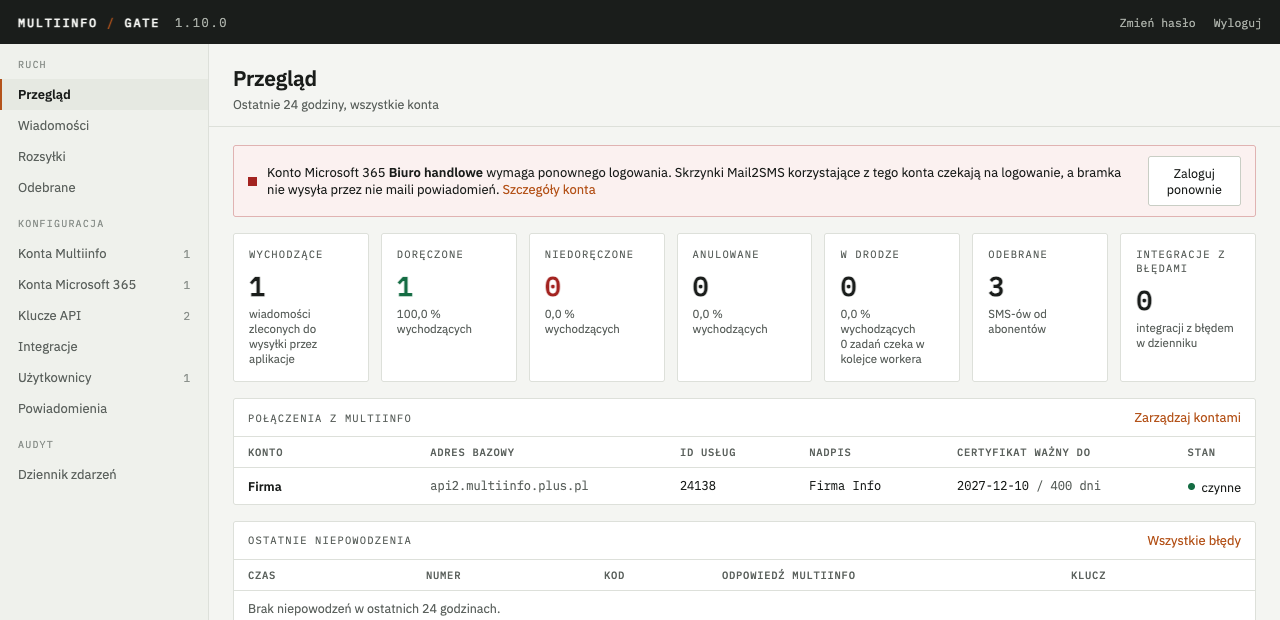
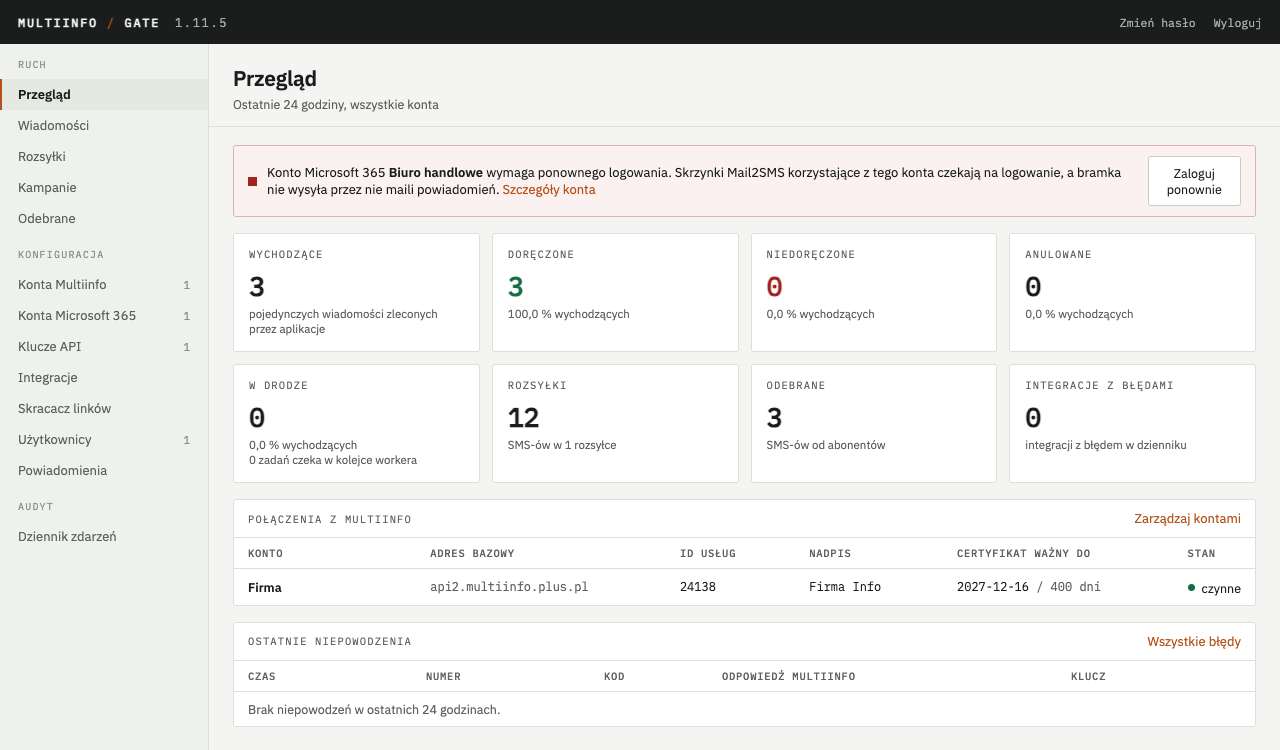
1.11.5: kafelek Rozsyłki na Przeglądzie i dokładniejszy podpis kafelka Wychodzące

diff --git a/test/admin/overview-packages.test.ts b/test/admin/overview-packages.test.ts
@@ -1,0 +1,76 @@
+import { beforeEach, describe, expect, it } from 'vitest';
+import { startAdminHarness, seedAccount, type AdminHarness } from '../helpers/admin-app.ts';
+import { packagesTileNote } from '../../src/admin/views/overview.ts';
+
+const NOW = new Date('2026-08-25T10:00:00Z');
+
+let h: AdminHarness;
+let accountId: number;
+let apiKeyId: number;
+
+beforeEach(async () => {
+  h = await startAdminHarness(NOW);
+  accountId = seedAccount(h);
+  apiKeyId = h.apiKeys.insert({
+    accountId, name: 'Dyspozytornia', keyHash: 'argon2:aaa', keyPrefix: 'a1b2c3d4',
+    defaultServiceId: '24138', defaultOrig: null, maxParts: 5, ratePerMin: 60,
+    webhookUrl: null, webhookSecret: null, serviceIds: ['24138'],
+  });
+});
+
+const page = (url: string) => h.app.inject({ method: 'GET', url, headers: { cookie: h.cookie } });
+
+function addPackage(id: string, createdAt: Date, dests: string[]): void {
+  h.packages.insert({
+    id, apiKeyId, accountId, serviceId: '24138', defaultText: 'Przegląd serwisowy jutro o 9:00', orig: null,
+    costCenter: null, startAt: null, deliveryReport: 0, encoding: 'gsm', multipart: 0, createdAt: createdAt.toISOString(),
+  }, dests.map((dest) => ({ dest, text: null, clientId: null })));
+}
+
+function addMessage(id: string): void {
+  h.messages.insert({
+    id, apiKeyId, accountId, serviceId: '24138', dest: '48601135134', body: 'Zlecenie serwisowe przyjęte',
+    bodyHash: 'h', encoding: 'gsm', parts: 1, slots: 22, orig: null, costCenter: null, validTo: null,
+    idempotencyKey: null, createdAt: NOW.toISOString(),
+  });
+}
+
+describe('packagesTileNote', () => {
+  it('odmienia podpis kafelka według liczby rozsyłek', () => {
+    expect(packagesTileNote(0)).toBe('SMS-ów w rozsyłkach');
+    expect(packagesTileNote(1)).toBe('SMS-ów w 1 rozsyłce');
+    expect(packagesTileNote(2)).toBe('SMS-ów w 2 rozsyłkach');
+    expect(packagesTileNote(5)).toBe('SMS-ów w 5 rozsyłkach');
+  });
+});
+
+describe('GET /przeglad - rozsyłki', () => {
+  it('kafelek Rozsyłki liczy SMS-y rozsyłek z ostatniej doby i prowadzi do listy rozsyłek', async () => {
+    addPackage('pkg_1', NOW, ['48601000001', '48601000002', '48601000003']);
+    addPackage('pkg_0', new Date(NOW.getTime() - 25 * 3600_000), ['48601000004']);
+    const res = await page('/przeglad');
+    expect(res.body).toMatch(/<a class="tile" href="\/rozsylki">\s*<div class="lab">Rozsyłki<\/div>\s*<div class="n">3<\/div>\s*<div class="d">SMS-ów w 1 rozsyłce<\/div>/);
+  });
+
+  it('bez rozsyłek pokazuje zero i podpis dla zera', async () => {
+    const res = await page('/przeglad');
+    expect(res.body).toMatch(/Rozsyłki<\/div>\s*<div class="n">0<\/div>\s*<div class="d">SMS-ów w rozsyłkach<\/div>/);
+  });
+
+  it('kafelek Wychodzące liczy tylko pojedyncze wiadomości, także po dodaniu rozsyłki', async () => {
+    addMessage('m1');
+    addPackage('pkg_1', NOW, ['48601000001', '48601000002', '48601000003']);
+    const res = await page('/przeglad');
+    expect(res.body).toMatch(/Wychodzące<\/div>\s*<div class="n">1<\/div>\s*<div class="d">pojedynczych wiadomości zleconych przez aplikacje<\/div>/);
+  });
+
+  it('kafelek Rozsyłki stoi za „W drodze”, a przed „Odebrane”', async () => {
+    const body = (await page('/przeglad')).body;
+    const transit = body.indexOf('<div class="lab">W drodze</div>');
+    const packages = body.indexOf('<div class="lab">Rozsyłki</div>');
+    const inbound = body.indexOf('<div class="lab">Odebrane</div>');
+    expect(transit).toBeGreaterThan(-1);
+    expect(packages).toBeGreaterThan(transit);
+    expect(inbound).toBeGreaterThan(packages);
+  });
+});

diff --git a/src/admin/views/overview.ts b/src/admin/views/overview.ts
@@ -19,6 +19,8 @@ export interface OverviewData {
   failures: MessageRow[];
   keyNames: Map<number, string>;
   webhooks: { pending: number; failed: number };
+  /** Rozsyłki z okna przeglądu i liczba ich SMS-ów, czyli suma odbiorców. */
+  packages: { packages: number; recipients: number };
   /** Odebrane od abonentów w oknie przeglądu. */
   inboundToday: number;
   /** Integracje z choć jednym błędem w oknie przeglądu. */
@@ -42,6 +44,13 @@ export function troubledIntegrations(n: number): string {
   if (n === 1) return '1 integracja zgłosiła błąd';
   if (last >= 2 && last <= 4 && (tens < 12 || tens > 14)) return `${n} integracje zgłosiły błąd`;
   return `${n} integracji zgłosiło błąd`;
+}
+
+/** Podpis kafelka „Rozsyłki”: „SMS-ów w rozsyłkach”, „SMS-ów w 1 rozsyłce”, „SMS-ów w 5 rozsyłkach”. */
+export function packagesTileNote(packages: number): string {
+  if (packages === 0) return 'SMS-ów w rozsyłkach';
+  if (packages === 1) return 'SMS-ów w 1 rozsyłce';
+  return `SMS-ów w ${packages} rozsyłkach`;
 }
 
 /** „1 webhook nie dotarł”, „3 webhooki nie dotarły”, „5 webhooków nie dotarło”. */
@@ -237,11 +246,11 @@ export function overviewPage(data: OverviewData, now: Date): string {
   </div>
   <div class="scroll">
     ${alerts(data, now)}
-    <div class="tiles tiles-7">
+    <div class="tiles">
       <a class="tile" href="/wiadomosci">
         <div class="lab">Wychodzące</div>
         <div class="n">${esc(data.counts.total)}</div>
-        <div class="d">wiadomości zleconych do wysyłki przez aplikacje</div>
+        <div class="d">pojedynczych wiadomości zleconych przez aplikacje</div>
       </a>
       <a class="tile" href="/wiadomosci?status=delivered">
         <div class="lab">Doręczone</div>
@@ -262,6 +271,11 @@ export function overviewPage(data: OverviewData, now: Date): string {
         <div class="lab">W drodze</div>
         <div class="n">${esc(data.counts.transit)}</div>
         <div class="d">${esc(share(data.counts.transit, data.counts.total))}<br>${esc(data.queueDepth)} zadań czeka w kolejce workera</div>
+      </a>
+      <a class="tile" href="/rozsylki">
+        <div class="lab">Rozsyłki</div>
+        <div class="n">${esc(data.packages.recipients)}</div>
+        <div class="d">${esc(packagesTileNote(data.packages.packages))}</div>
       </a>
       <a class="tile" href="/odebrane">
         <div class="lab">Odebrane</div>

diff --git a/test/store/packages.test.ts b/test/store/packages.test.ts
@@ -23,7 +23,7 @@ function setup() {
     { dest: '48601135134', text: null, clientId: null },
     { dest: '48501052442', text: 'Indywidualna', clientId: 'faktura-114' },
   ]);
-  return { repo, apiKeyId };
+  return { repo, apiKeyId, accountId };
 }
 
 describe('PackagesRepo', () => {
@@ -132,5 +132,24 @@ describe('PackagesRepo', () => {
     expect(repo.list({ apiKeyId, limit: 10, offset: 0 }).map((p) => p.id)).toEqual(['pkg_1']);
     expect(repo.list({ apiKeyId: apiKeyId + 1, limit: 10, offset: 0 })).toEqual([]);
     expect(repo.list({ limit: 10, offset: 0 })).toHaveLength(1);
+  });
+});
+
+describe('PackagesRepo.countSince', () => {
+  it('liczy rozsyłki z okna i ich odbiorców we wszystkich stanach', () => {
+    const { repo, apiKeyId, accountId } = setup();
+    const add = (id: string, createdAt: Date, dests: string[]) => repo.insert({
+      id, apiKeyId, accountId, serviceId: '24138', defaultText: 'Przegląd serwisowy', orig: null,
+      costCenter: null, startAt: null, deliveryReport: 0, encoding: 'gsm', multipart: 0, createdAt: createdAt.toISOString(),
+    }, dests.map((dest) => ({ dest, text: null, clientId: null })));
+    add('pkg_2', new Date(NOW.getTime() - 25 * 3600_000), ['48601000001', '48601000002']);
+    add('pkg_3', NOW, ['48601000003']);
+    repo.setFailed('pkg_3', -63, 'Zbyt wielu odbiorców', NOW);
+    expect(repo.countSince(new Date(NOW.getTime() - 24 * 3600_000))).toEqual({ packages: 2, recipients: 3 });
+  });
+
+  it('bez rozsyłek w oknie zwraca zera', () => {
+    const repo = new PackagesRepo(openDatabase(':memory:'));
+    expect(repo.countSince(NOW)).toEqual({ packages: 0, recipients: 0 });
   });
 });

diff --git a/src/store/packages.ts b/src/store/packages.ts
@@ -102,6 +102,14 @@ export class PackagesRepo {
     return this.db.transaction(fn)();
   }
 
+  /** Rozsyłki utworzone od `since` we wszystkich stanach i suma ich odbiorców, czyli liczba SMS-ów. */
+  countSince(since: Date): { packages: number; recipients: number } {
+    const row = this.db
+      .prepare('SELECT COUNT(*) AS packages, COALESCE(SUM(recipients_count), 0) AS recipients FROM packages WHERE created_at >= ?')
+      .get(since.toISOString()) as { packages: number; recipients: number };
+    return { packages: row.packages, recipients: row.recipients };
+  }
+
   findByIdempotencyKey(apiKeyId: number, key: string): PackageRow | undefined {
     const row = this.db.prepare('SELECT * FROM packages WHERE api_key_id = ? AND idempotency_key = ?').get(apiKeyId, key) as Raw | undefined;
     return row ? toRow(row) : undefined;

diff --git a/src/admin/routes/overview.ts b/src/admin/routes/overview.ts
@@ -36,6 +36,7 @@ export function registerOverviewRoutes(app: FastifyInstance, deps: AdminDeps, re
         failures: deps.messages.recentFailures(FAILURES_SHOWN),
         keyNames: new Map(deps.apiKeys.list().map((k) => [k.id, k.name])),
         webhooks: deps.deliveries.counts(since),
+        packages: deps.packages.countSince(since),
         inboundToday: deps.inbound.countSince(since),
         integrationsTroubled: deps.integrations.countTroubled(since) + (deps.mailIn?.troubledCount() ?? 0),
         release: pendingRelease(deps.settings),

diff --git a/src/admin/public/style.css b/src/admin/public/style.css
@@ -239,7 +239,6 @@ a.tag:hover { color: var(--signal); background: var(--rail-on); }
 .tiles { display: grid; grid-template-columns: repeat(4, minmax(0, 1fr)); gap: 12px; }
 .tiles-5 { grid-template-columns: repeat(5, minmax(0, 1fr)); }
 .tiles-6 { grid-template-columns: repeat(6, minmax(0, 1fr)); }
-.tiles-7 { grid-template-columns: repeat(7, minmax(0, 1fr)); }
 a.tile { color: inherit; display: block; }
 a.tile:hover { border-color: var(--edge); }
 .btn.disabled { opacity: 0.45; cursor: default; pointer-events: none; }

diff --git a/test/admin/messages.test.ts b/test/admin/messages.test.ts
@@ -95,7 +95,8 @@ describe('GET /przeglad - odebrane', () => {
     const res = await page('/przeglad');
     expect(res.body).toMatch(/Odebrane<\/div>\s*<div class="n">1<\/div>/);
     expect(res.body).toContain('href="/odebrane"');
-    expect(res.body).toContain('tiles-7');
+    expect(res.body).toContain('<div class="tiles">');
+    expect(res.body).not.toContain('tiles-7');
   });
 });
 

diff --git a/docs/index.md b/docs/index.md
@@ -22,7 +22,7 @@ powiadamia administratora również SMS-em. Od wersji 1.11 bramka zamienia linki
 linki własnej domeny firmy, liczy ich otwarcia i przedstawia wyniki kampanii w panelu, w API
 i w zdarzeniu „link otwarty”.
 
-![Przegląd: liczniki wiadomości wychodzących i odebranych z ostatniej doby, stan połączeń z Multiinfo i ostatnie niepowodzenia](obrazki/przeglad.png)
+![Przegląd: liczniki pojedynczych wiadomości, rozsyłek i SMS-ów odebranych z ostatniej doby, stan połączeń z Multiinfo i ostatnie niepowodzenia](obrazki/przeglad.png)
 
 ## Dla kogo
 
